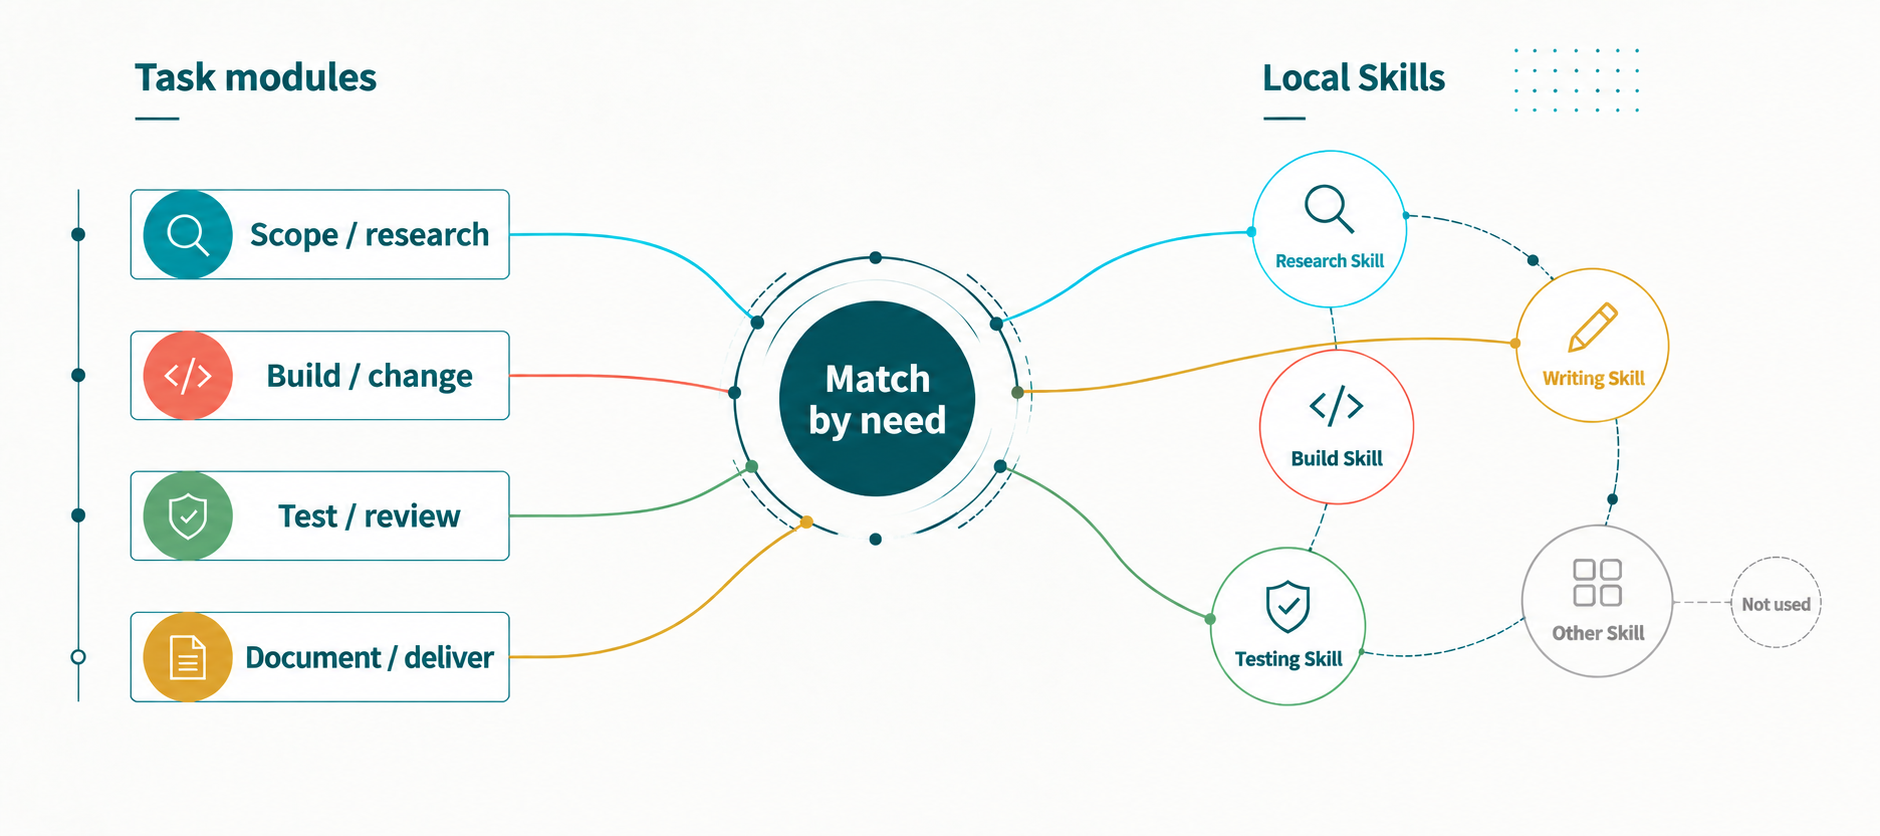
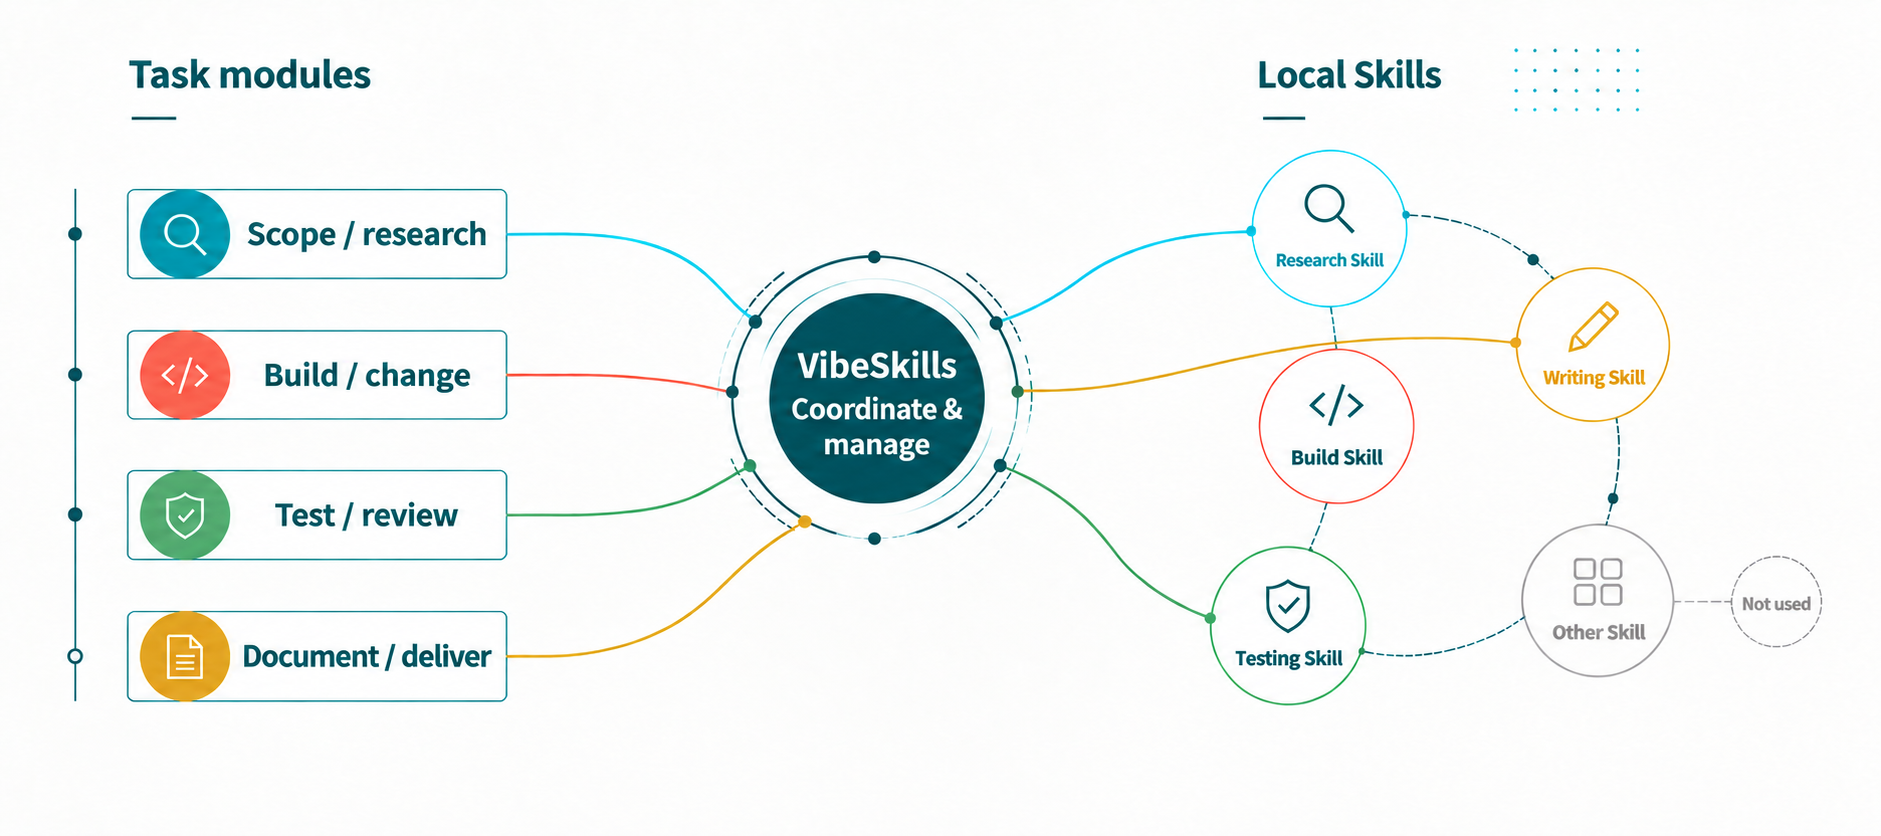
docs: center VibeSkills in orchestration graphic

diff --git a/README.md b/README.md
@@ -50,20 +50,21 @@ so more of the capability you already installed can contribute where it actually
 | Unmatched work is handled on the spot | A useful Skill is assigned to specific work with a stated result |
 | Separate calls are left disconnected | All results are brought together and checked at the end |
 
-VibeSkills first makes the task clear, then lets the right Skills help with the
-right parts. It selects only the Skills that are useful for the task. Work that
-does not need a dedicated Skill stays with the current AI.
+VibeSkills first makes the task clear, then organizes the Skills that can help
+with each part. It keeps the work coordinated and brings the results back
+together. Only Skills that are useful for the task are selected.
 
-## Decompose first, then organize Skills
+## How VibeSkills organizes the work
 
 <p align="center">
-  <img src="./docs/assets/vibeskills-skill-orchestration-en.png" width="920" alt="VibeSkills matches each part of a task with local Skills that help, while the current AI handles work that does not need a dedicated Skill">
+  <img src="./docs/assets/vibeskills-skill-orchestration-en.png" width="920" alt="VibeSkills sits between task modules and local Skills, coordinating the work and selecting only the Skills each part needs">
 </p>
 
-The task is split before Skills are chosen. If four parts need four different
-kinds of help, each part can use a different Skill. Work that does not need a
-dedicated Skill stays with the current AI. The goal is to complete the task, not
-to increase the number of calls.
+The diagram puts VibeSkills between the task modules and local Skills. It splits
+the task, chooses Skills for the parts that need them, coordinates the work, and
+brings the results together. Four parts can use four different Skills, or the
+task may need only some of the available Skills. The goal is to complete the
+task, not to increase the number of calls.
 
 ## What else VibeSkills does
 